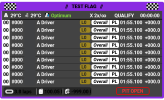
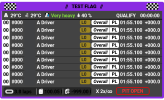
relative - flag border blink speed, weather precipitation, roadWetness new text scale

Changed region(s): [[0.3049, 0.12, 0.8537, 0.18], [0.5793, 0.87, 0.7012, 0.93]]

diff --git a/MkStrike - relative/JavascriptExtensions/mkstrike-relative-utils.js b/MkStrike - relative/JavascriptExtensions/mkstrike-relative-utils.js
@@ -98,6 +98,14 @@ function mk_getFlagText() {
     return '';
 }
 
+function mk_FlagBorderBlinkSpeed() {
+    if ($prop('Flag_White')) {
+        return mk_BorderBlinkSpeedMs() * 2;
+    } else {
+        return mk_BorderBlinkSpeedMs();
+    }
+}
+
 function mk_IsFlagBorderVisible() {
     return $prop('Flag_Black') || mk_isBlackFlag() || $prop('Flag_Blue') || $prop('Flag_Green') || $prop('Flag_Checkered') || $prop('Flag_White') || $prop('Flag_Yellow');
 }
@@ -154,6 +162,36 @@ function mk_getTyreText() {
     return tireCompound;
 }
 
+function mk_getWeatherPrecipitation() {
+    if (mk_isIRacing()) {
+        const rawData = NewRawData();
+        if (rawData.Telemetry) {
+            const precipitation = rawData.Telemetry["Precipitation"];
+            if (precipitation) {
+                return (parseFloat(precipitation) * 100).toFixed(0) + '%';
+            }
+        }
+    }
+    return '-';
+}
+
+function mk_getWeatherPrecipitationTextColor() {
+    if (mk_isIRacing()) {
+        const rawData = NewRawData();
+        if (rawData.Telemetry) {
+            const precipitation = rawData.Telemetry["Precipitation"];
+            if (precipitation) {
+                if (precipitation >= 0.5) {
+                    return '#0065C3'
+                }
+                if (precipitation >= 0.3) {
+                    return '#4FAEE3';
+                }
+            }
+        }
+    }
+}
+
 function mk_getRoadWetness() {
     if (mk_isIRacing()) {
         const rawData = NewRawData();
@@ -162,15 +200,15 @@ function mk_getRoadWetness() {
             if (w == 1) {
                 return 'Dry';
             } else if (w == 2) {
-                return 'Mostly dry';
+                return 'Very light'; //'Mostly dry';
             } else if (w == 3) {
-                return 'Light wet'; //Very light wet, Very damp track
+                return 'Light';//'Light wet'; //Very light wet, Very damp track
             } else if (w == 4) {
-                return 'Wet track';
+                return 'Moderate'; //'Wet track';
             } else if (w == 5) {
-                return 'Very wet track';
+                return 'Heavy';//'Very wet track';
             } else if (w == 6) {
-                return 'Waterlogged track';
+                return 'Very heavy';//'Waterlogged track';
             }
             return 'R: ' + w;
         }
